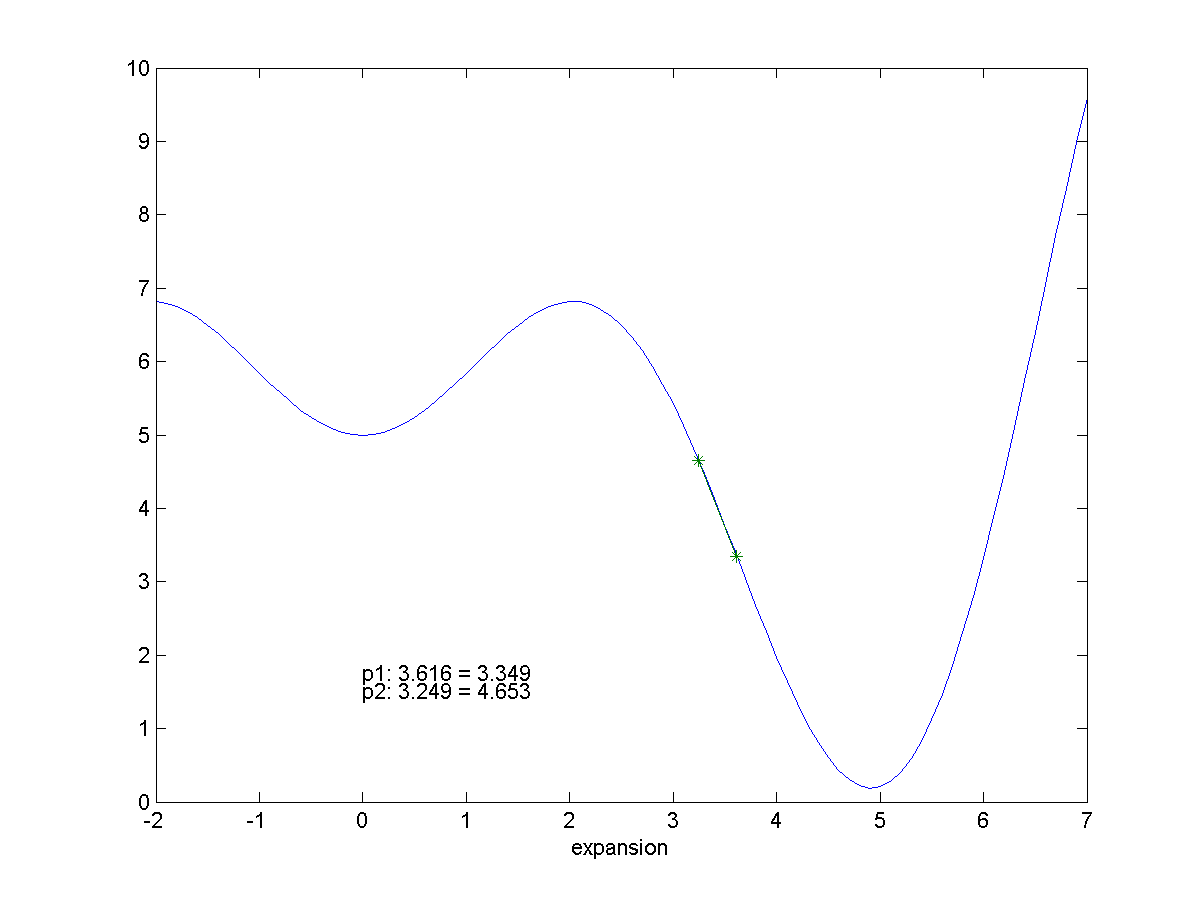
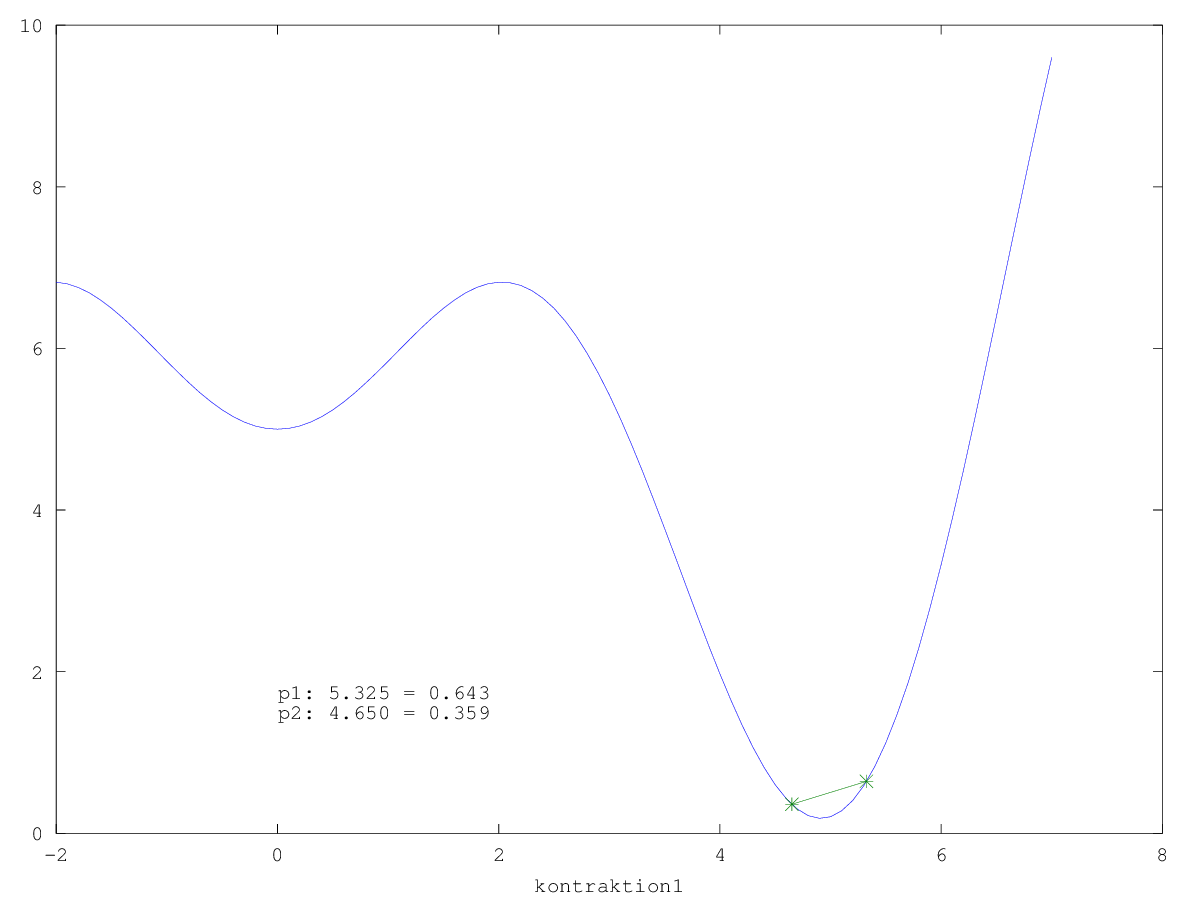
neue plots mit gefixtem downhill

diff --git a/matlab/plot1dsimplex.m b/matlab/plot1dsimplex.m
@@ -1,12 +1,12 @@
 %tx = [-1:0.1:2];
 %fun = @square;
 
-tx = [-2:0.1:5];
+tx = [-2:0.1:7];
 fun = @(x)x.*sin(x)+5;
 
 y = fun(tx);
 
-[opt, parts, labels] = downhill(1, fun, 0.01, [-2; 2.1]);
+[opt, parts, labels] = downhill(1, fun, 0.01, [2; 2.1]);
 mkdir('../bilder/sinxx1')
 for i=1:min(10,size(parts,2))
 	f = figure('Name', sprintf('%d', i))
@@ -18,7 +18,8 @@ for i=1:min(10,size(parts,2))
 	print(f, sprintf('../bilder/sinxx1/sinx_x%03i.png',i));
 end
 
-[opt, parts, labels] = downhill(1, fun, 0.01, [-2; 1.9]);
+
+[opt, parts, labels] = downhill(1, fun, 0.01, [2; 1.9]);
 mkdir('../bilder/sinxx2')
 for i=1:min(10,size(parts,2))
 	f = figure('Name', sprintf('%d', i))
@@ -31,3 +32,17 @@ for i=1:min(10,size(parts,2))
 end
 
 
+tx = [-6:0.1:6];
+fun = @(x)x.^2;
+y = fun(tx);
+[opt, parts, labels] = downhill(1, fun, 0.01, [-6; -5]);
+mkdir('../bilder/Quadrat')
+for i=1:min(10,size(parts,2))
+	f = figure('Name', sprintf('%d', i))
+	plot(tx, y, parts{i}(:), fun(parts{i}(:)), '-*')
+	xlabel(labels{i})
+	for n=1:2
+		text(0, 30-n, sprintf('p%i: %1.3f = %1.3f', n, parts{i}(n), fun(parts{i}(n))));
+	end
+	print(f, sprintf('../bilder/Quadrat/sinx_x%03i.png',i),'-dpng');
+end
